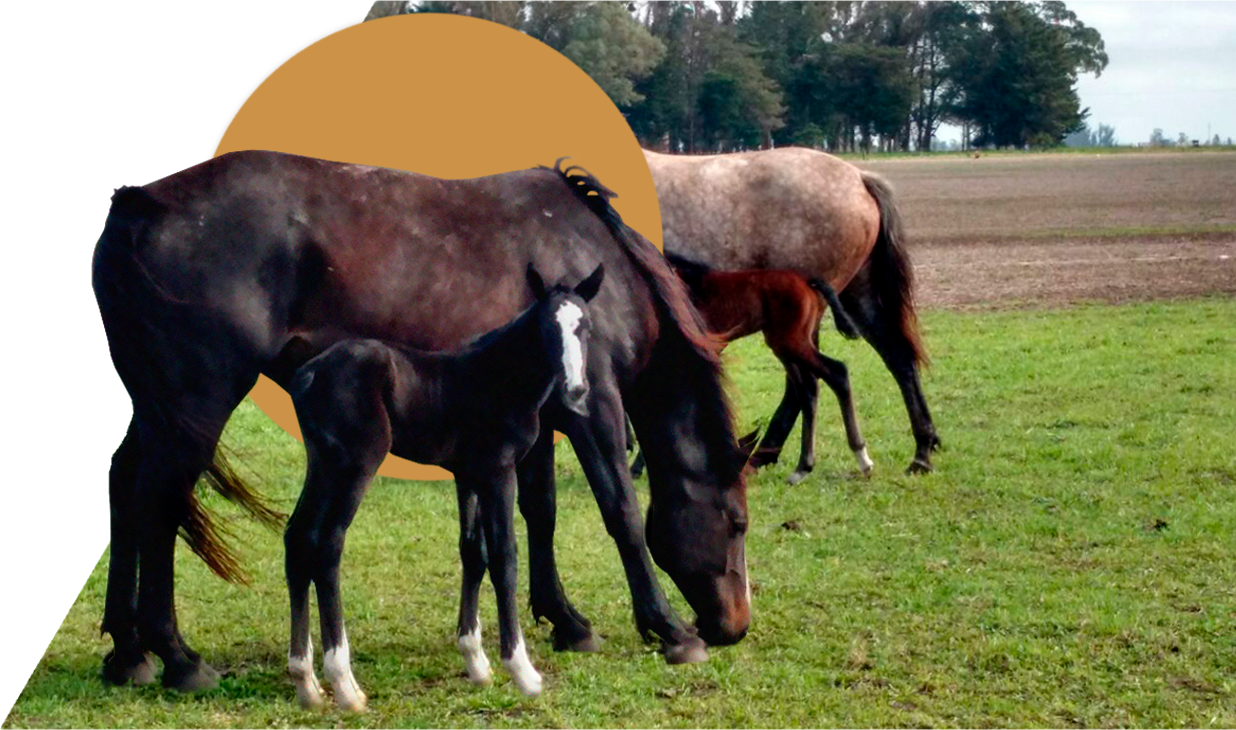
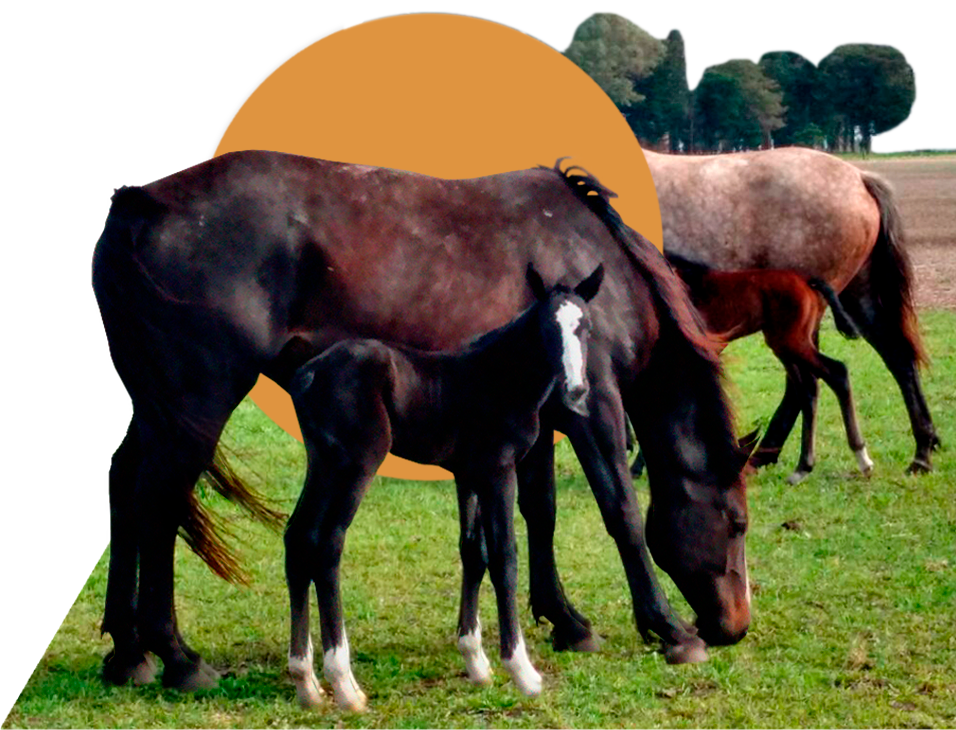
more responsive styles

diff --git a/css/styles.scss b/css/styles.scss
@@ -1,12 +1,15 @@
 *{
   box-sizing: border-box;
 }
+html, body{
+  scroll-behavior: smooth;
+  overflow: hidden;
+  overflow-y: auto;
+}
 body, input, textarea, button{
   font-family: 'Arbutus Slab', serif;
   color: #1b1b1b;
   margin: 0;
-  overflow: hidden;
-  overflow-y: auto;
 }
 h1,h2,h3{
   text-transform: uppercase;
@@ -46,7 +49,6 @@ a{
   }
 }
 section{
-  min-height: 100vh;
   padding: 80px 10vw;
 }
 // ---------------------
@@ -71,7 +73,7 @@ header{
   h1{
     margin: 0;
     height: 60px;
-    margin-right: 20px;
+    margin-right: 80px;
   }
 
   img{
@@ -82,6 +84,7 @@ header{
     display: flex;
     align-items: center;
     justify-content: space-between;
+    max-width: 50vw;
   }
   a{
     padding: 5px;
@@ -139,7 +142,6 @@ header{
   padding: 0;
   background-color: black;
   color: white;
-  min-height: 0;
   position: relative;
 
   h3{
@@ -200,22 +202,29 @@ header{
   }
 
   .crianza{
-    padding: 80px 10vw;
+    padding: 80px 0;
     background-image: url('../img/home2-bg.jpg');
     position: relative;
 
     &__text{
-      transition: transform .6s ease-out,opacity .6s ease-out;
-      transition-delay: .3s;
+      position: absolute;
+      left: 0;
+      top: 140px;
+      width: 100vw;
+      padding-right: 60vw;
+      padding-left: 10vw;
+      height: 80%;
+      height: calc(100% - 220px);
+      display: flex;
+      flex-direction: column;
+      justify-content: center;
       background-color: rgba(241, 217, 189,0.8);
-      transform: translateX(100vw);
-      opacity: 0;
-      height: 110%;
-      display: inline-block;
-      padding: 20vh 50vw;
-      width: 200vw;
       color: black;
       user-select: none;
+      transition: transform .6s ease-out,opacity .6s ease-out;
+      transition-delay: .3s;
+      transform: translateX(100vw);
+      opacity: 0;
 
       h3{
         color: #9d562f;
@@ -224,22 +233,42 @@ header{
 
     img{
       position: absolute;
-      left: 50vw;
-      bottom: 20px;
-      height: 90%;
-      height: calc(100% - 80px);
-      transform: translateX(100vw);
+      right: 0;
+      bottom: 0;
+      width: 60%;
+      max-height: 90%;
+      object-fit: contain;
+      object-position: 100% 0%;
       transition: transform .6s ease-out;
     }
 
     &.tns-slide-active{
       .crianza__text{
-        transform: translateX(-120vw);
-        opacity: 1;
-      }
-      img{
         transform: translateX(0);
         opacity: 1;
+        @media screen and (max-width: 1200px){
+          padding-right: 50vw;
+        }
+        @media screen and (max-width: 900px){
+          padding: 40px 0 45vh;
+          top: 80px;
+          width: auto;
+          left: 20px;
+          right: 20px;
+          height: calc(100% - 100px);
+          text-align: center;
+        }
+      }
+      img{
+        transform: translateX(0%);
+        opacity: 1;
+        @media screen and (max-width: 1200px){
+          width: 50vw;
+        }
+        @media screen and (max-width: 900px){
+          height: 45%;
+          width: auto;
+        }
       }
     }
   }
@@ -307,6 +336,7 @@ header{
 #Criterios{
   .slider{
     padding-bottom: 20px;
+    margin: 80px 0 ;
   }
   li{
     text-align: center;
@@ -333,18 +363,18 @@ header{
     padding-bottom: 20px;
     li{
       position: relative;
-      margin-top: 100px;
+      margin-top: 150px;
     }
     .name{
       position: absolute;
       z-index: -1;
       bottom: 95%;
-      width: 80%;
       left: 15%;
+      width: 80%;
     }
     .photo{
       z-index: 2;
-      max-width: 100%;
+      width: 100%;
       height: auto;
     }
     .sans{

diff --git a/js/index.js b/js/index.js
@@ -8,14 +8,17 @@ import initEmergence from 'emergence.js'; // https://github.com/xtianmiller/emer
 import * as basicLightbox from 'basiclightbox' // https://basiclightbox.electerious.com/
 import Plyr from 'plyr';
 import { tns } from 'tiny-slider';
+import smoothscroll from 'smoothscroll-polyfill';
 
+
+// SETUP
+smoothscroll.polyfill();
+initEmergence(this).init();
+Plyr.setup('.plyr',{controls: ['play', 'progress']});
+
+
+// SLIDERS
 const sliderOptions = {controlsText: ['❮','❯'],"mouseDrag": true,"swipeAngle": false, controlsPosition: "bottom"};
-
-const players = Plyr.setup('.plyr',{controls: ['play', 'progress']});
-
-const emergence = initEmergence(this);
-
-emergence.init();
 
 const subHome = tns({...sliderOptions, container: '#Home .sub-slider', items: 1, nav: false, mouseDrag: false, nested: 'inner'});
 const home = tns({...sliderOptions, container: '#Home .slider', items: 1, controls: false, mouseDrag: false, autoplay: true, autoplayButtonOutput: false, nested: 'outer'});
@@ -104,6 +107,7 @@ const videos = tns({...sliderOptions,
   },
 });
 
+// HANDLERS
 
 function $(selector){
   return document.querySelector(selector);

diff --git a/index.html b/index.html
@@ -27,8 +27,8 @@
     -->
   <section id="Home">
     <ul class="slider">
-      <li class="ofrecemos" >
-        <div class="ofrecemos__text" data-emergence="hidden">
+      <li class="ofrecemos">
+        <div class="ofrecemos__text">
           <h3>Ofrecemos</h3>
           <p>Caballos deportivos, salto,<br> adiestramiento, endurance.</p>
           <a href="#Contacto" class="button">Consultar</a>
@@ -36,11 +36,11 @@
         <hr class="gold-bar" data-emergence="hidden" />
       </li>
       <li class="crianza">
-        <div class="crianza__text"  data-emergence="hidden">
+        <div class="crianza__text">
           <h3>Crianza a campo</h3>
           <p>Con una buena cadena alimenticia <br>de pasturas consonciadas permiten <br>el desarrollo equilibrado del potrillo.</p>
         </div>
-        <img src="./img/home2.png" alt="Crianza a campo"  data-emergence="hidden">
+        <img src="./img/home2.png" alt="Crianza a campo">
       </li>
       <li class="galeria">
         <div class="sub-slider">

diff --git a/css/ui.scss b/css/ui.scss
@@ -40,6 +40,7 @@
   transition-delay: .8s;
 }
 
+
 // Tiny Slider
 .slider{
   margin: 0;
@@ -75,7 +76,6 @@
     width: 40px;
     height: 40px;
     line-height: 40px;
-    overflow: hidden;
 
     &:focus{
       outline: 0;
